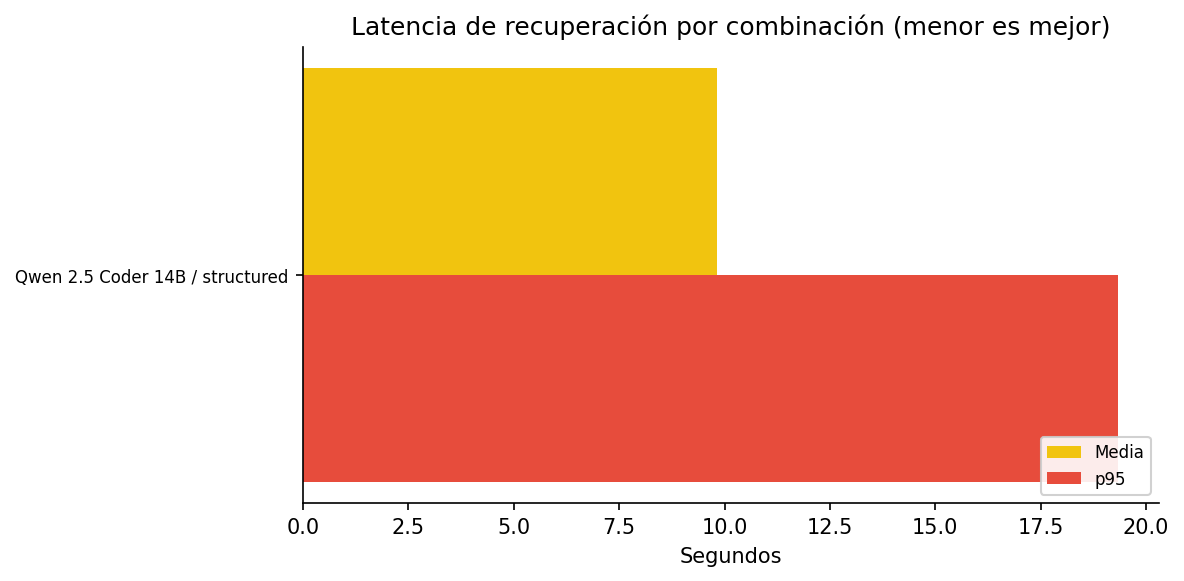
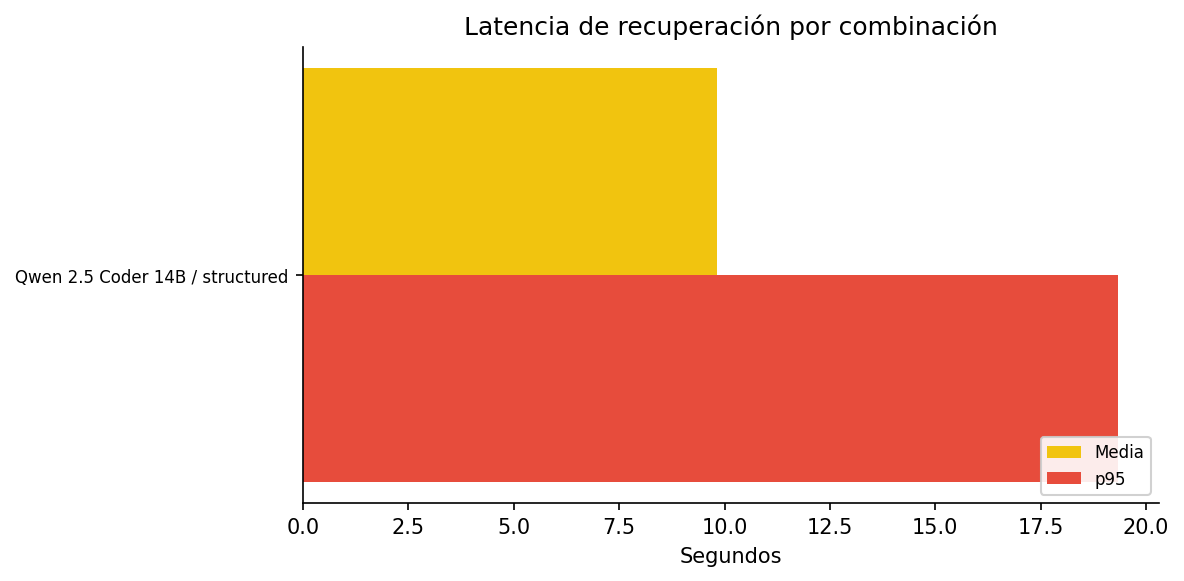
change graphics

Changed region(s): [[0.2812, 0.031, 0.9375, 0.062]]

diff --git a/evaluation/scripts/evaluate_retrieval.py b/evaluation/scripts/evaluate_retrieval.py
@@ -566,10 +566,16 @@ def _generate_best_confusion_matrix(
     ax.set_xlim(0, 2)
     ax.set_ylim(0, 2)
     ax.set_xticks([0.5, 1.5])
-    ax.set_xticklabels(["GT: sí", "GT: no"], fontsize=9)
-    ax.set_yticks([0.5, 1.5])
-    ax.set_yticklabels(["pred: no", "pred: sí"], fontsize=9)
-    ax.set_title("Mejor combinación", fontsize=11)
+
+    # Se eliminan las etiquetas laterales "pred: sí" y "pred: no".
+    ax.set_yticks([])
+
+    ax.set_title(
+        f"{best_result['label']}\n"
+        f"Calidad global: {best_result['quality_overall']:.3f}",
+        fontsize=10,
+        pad=10,
+    )
     ax.set_aspect("equal")
 
     for spine in ax.spines.values():
@@ -577,12 +583,12 @@ def _generate_best_confusion_matrix(
     ax.tick_params(length=0)
 
     fig.suptitle(
-        "Matriz de confusión — "
-        f"{best_result['label']} | Calidad global: "
-        f"{best_result['quality_overall']:.3f}",
-        fontsize=12,
+        "Matriz de confusión de la mejor combinación",
+        fontsize=13,
+        fontweight="bold",
+        y=0.98,
     )
-    fig.tight_layout()
+    fig.tight_layout(rect=[0, 0, 1, 0.93])
 
     path = images_dir / "chart_confusion_best.png"
     fig.savefig(path, dpi=150, bbox_inches="tight", facecolor="white")
@@ -654,7 +660,7 @@ def generate_charts(results: List[Dict[str, Any]], images_dir: Path) -> Dict[str
     ax.set_yticks(yl)
     ax.set_yticklabels(lat_labels, fontsize=8)
     ax.set_xlabel("Segundos")
-    ax.set_title("Latencia de recuperación por combinación (menor es mejor)")
+    ax.set_title("Latencia de recuperación por combinación")
     ax.legend(fontsize=8, loc="lower right", framealpha=0.9)
     ax.spines[["top", "right"]].set_visible(False)
     fig.tight_layout()
